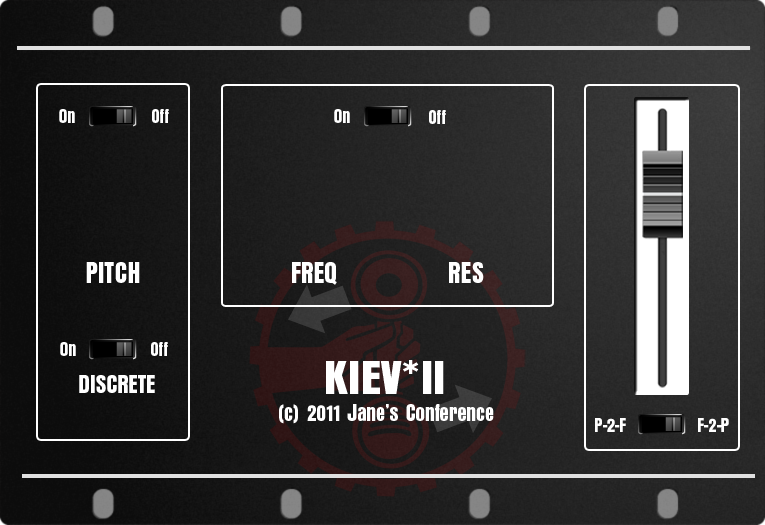
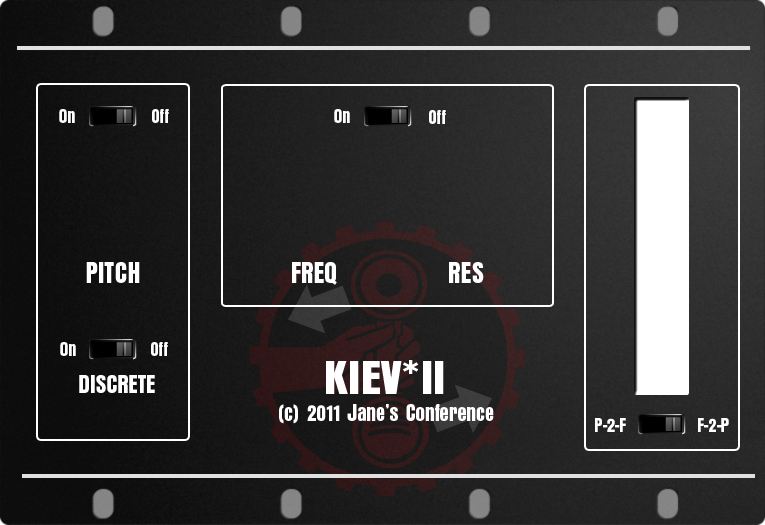
Added vertical volume fader in demo.

Changed region(s): [[0.8418, 0.2133, 0.902, 0.7314]]

diff --git a/demos/voron/index.html b/demos/voron/index.html
@@ -6,6 +6,7 @@
     <script type="text/javascript" src="../../graphic_elements/Element.js"></script>
     <script type="text/javascript" src="../../graphic_elements/UI.js"></script>
     <script type="text/javascript" src="../../graphic_elements/Knob.js"></script>
+    <script type="text/javascript" src="../../graphic_elements/Slider.js"></script>
     <script type="text/javascript" src="../../graphic_elements/Background.js"></script>
     <script type="text/javascript" src="../../graphic_elements/wrappers/CanvasDraw.js"></script>
   </head>
@@ -45,6 +46,7 @@
         document.addEventListener("mousemove", ui.onMouseMoveFunc(), true);
 
         var imageDisplayer = new CanvasDrawImage (plugin_context);
+        var volImageDisplayer = new CanvasDrawImage (plugin_context);
 
         var loadCallback = loadingManager();
         /* END OF CONTEXT INIT */
@@ -69,6 +71,7 @@
             prefix = "",
             knobImgArray = [],
             knobArgs,
+            volSliderArgs,
             knobImgLocation = "./images/BigKnob/" ;
 
         for (i = 0; i <= MAX_KNOB_IMAGE_NUM; i++) {
@@ -105,6 +108,20 @@
 
         /* END OF KNOB INIT */
 
+        /* FADER INIT */
+
+        //VOL FADER
+        volSliderArgs = {
+            sliderImg:"./images/Fader/slider_slot.png", knobImg:"./images/Fader/slider_handle.png",
+            type:"vertical",
+            onComplete: loadCallback
+        };
+
+        volSliderArgs.onValueSet = volCallback();
+        var volSlider = new Slider("volSlider", [646, 136], volSliderArgs);
+
+        /* END OF FADER INIT */
+
         /* KEEP ON */
         
         function keepON () {
@@ -112,6 +129,7 @@
             ui.addElement(pitchKnob, imageDisplayer);
             ui.addElement(freqKnob, imageDisplayer);
             ui.addElement(qKnob, imageDisplayer);
+            ui.addElement(volSlider, volImageDisplayer);
             // TODO Something like ui.refresh() would be more appropriate, I guess.
             gui.refresh();
             // TODO if drawClass is undefined, just exit. This should be in the
@@ -119,6 +137,7 @@
             // repaint everything (in order).
             pitchKnob.setValue("knobvalue", 0.5);
             freqKnob.setValue("knobvalue", 1);
+            volSlider.setValue("slidervalue", 0.5);
             // TODO qKnob.setValue("knobvalue", 0) fails (does not display image)
             // because the initial value is 0 (why?). with ui.refresh() this does
             // not happen.
@@ -135,7 +154,7 @@
         function loadingManager (elementName) {
             // Closure persistent variables.
             var that = this,
-                loadStatus = {pitchKnob: false, freqKnob: false, qKnob: false, background: false};
+                loadStatus = {pitchKnob: false, freqKnob: false, qKnob: false, background: false, volSlider: false};
 
                 // Actual callback
                 return function (elementName) {
@@ -182,6 +201,13 @@
             var that = this;
             return function (slot, value) {
                 console.log ("q callback called: slot is ", slot, " and value is ", value, " while that is ", that);
+            };
+        }
+
+        function volCallback () {
+            var that = this;
+            return function (slot, value) {
+                console.log ("vol callback called: slot is ", slot, " and value is ", value, " while that is ", that);
             };
         }
 
